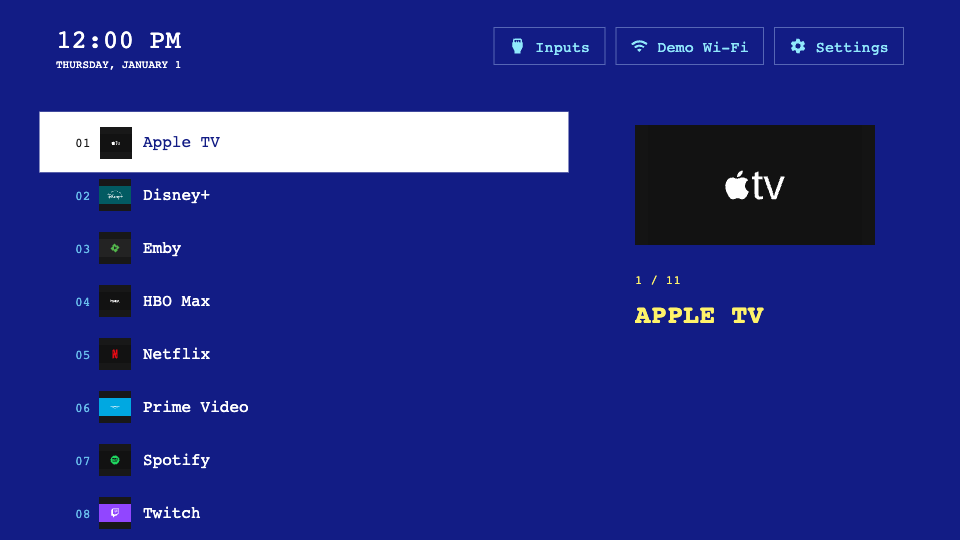
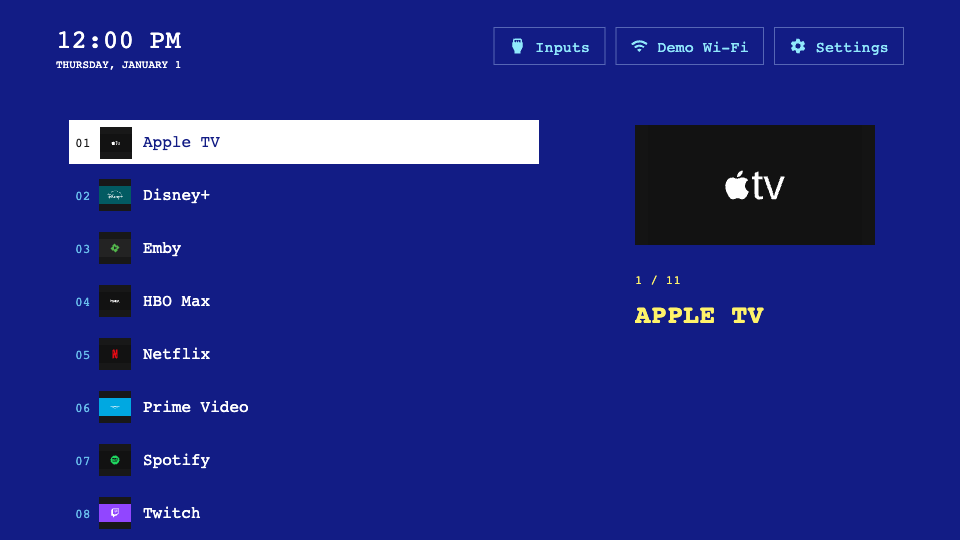
fix: use one stable highlight for Channel rows

Changed region(s): [[0.0312, 0.2074, 0.5938, 0.3259]]

diff --git a/examples/terminal/theme.css b/examples/terminal/theme.css
@@ -11,7 +11,6 @@
 .ctv-dock { background-color: transparent; border-style: none; border-radius: 0px; }
 .ctv-card { color: #ffffff; border-style: none; border-radius: 0px; box-shadow: 0px 0px 0px 0px transparent; }
 .ctv-card.is-focused { color: var(--blue); background-color: #ffffff; }
-.ctv-focus { background-image: linear-gradient(0deg, #ffffff 0%, #ffffff 100%); border-color: #ffffff; border-width: 0px; border-radius: 0px; box-shadow: 0px 0px 0px 0px transparent; }
 .ctv-label { color: #ffffff; font-family: monospace; font-weight: 400; letter-spacing: 0px; }
 .ctv-label.is-focused { color: var(--blue); }
 .ctv-inputs { background-image: linear-gradient(0deg, var(--blue) 0%, var(--blue) 100%); color: #ffffff; border-color: var(--cyan); border-radius: 0px; font-family: monospace; }

diff --git a/docs/channel-review.md b/docs/channel-review.md
@@ -45,3 +45,21 @@ This is browser/service simulation, with no TV connection. Root was checked by
 automated browser tests, not a manual device run. Physical TV model, firmware,
 webOS version and remote: untested. Installation, real app launches/input
 switching, sound, standby, cold boot, OTA and rollback: untested.
+
+## Navigation follow-up
+
+Reproduced the reported Up-navigation failure with actual animations enabled:
+after scrolling to the end and parking the pointer over row eight, Up to row
+five selected row seven instead. Content moved beneath the stationary cursor
+and mouseover overrode keyboard focus. The regression now runs in both editions
+and confirms every Up selects exactly the preceding row, and genuine pointer
+movement restores hover.
+
+Channel 1.2.1 uses one immediate row highlight; its enlarged travelling glass
+and row/stage transitions are disabled. The selected row remains readable during
+reorder. Classic retains its existing glass/motion behavior. No hardware claim
+is added by these browser results.
+
+Navigation follow-up candidate source: `a1b6a7aa399e8202df2383f802e33752b7264ad0`.
+The TV/preview check groups passed; final first-pointer and parked-pointer
+regressions passed separately after the simplified input ownership fix.

diff --git a/docs/authoring.md b/docs/authoring.md
@@ -64,3 +64,9 @@ App library surfaces expose `.ctv-library-panel` and `.ctv-library-close`
 so a theme can match its app library without styling trusted Settings.
 Channel uses the current candidate's selected-app preview, larger list rows,
 and full-width multi-column cells. Older candidates lack these polish fixes.
+
+In the `channel-list` preset, focus is painted directly on
+`.ctv-card.is-focused` (with the engine's mandatory accent border). The enlarged
+travelling `.ctv-focus` frame belongs to other layouts and stays hidden in the
+list. Channel row changes and scrolling are immediate, without a second zooming
+outline. Remote input keeps focus until actual pointer movement or a click.
